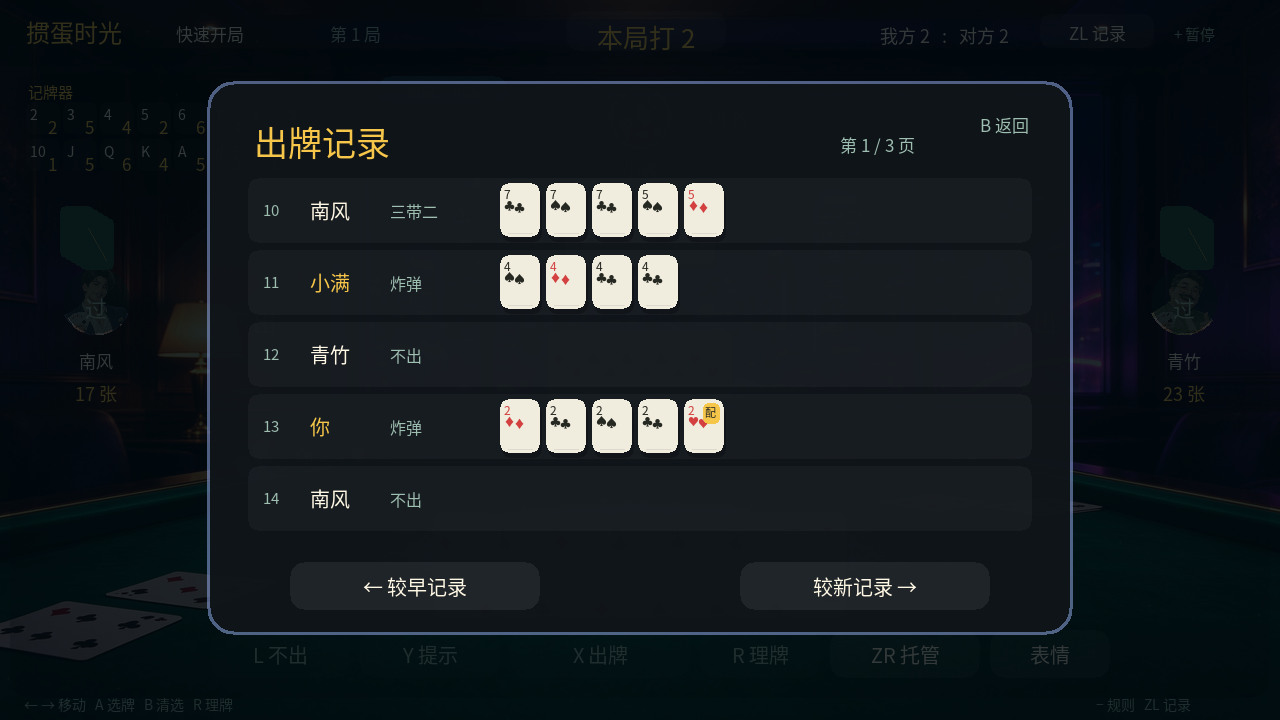
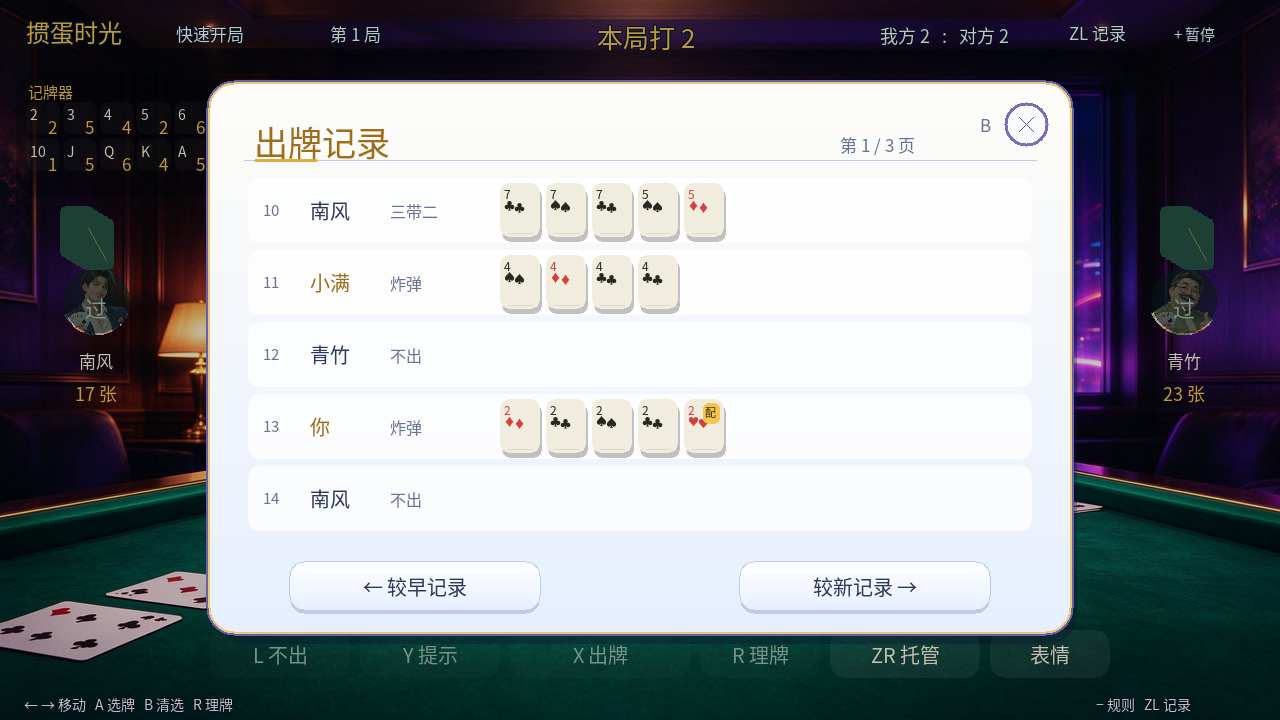
Redesign all screens with full-bleed scenes, floating navigation, and app-style dialogs

diff --git a/source/main.cpp b/source/main.cpp
@@ -42,7 +42,7 @@ static Uint32 pausedAt=0;static int pendingMode=0,historyPage=0,hintIndex=-1;
 static std::vector<Move> hintOptions;static size_t hintAction=0;static uint32_t hintSeed=0;static int hintRound=0;
 struct Area { int x,y,w,h;bool contains(int px,int py)const{return px>=x&&px<x+w&&py>=y&&py<y+h;} };
 static const Area modeAreas[4]={{460,206,350,210},{830,206,350,210},{460,436,350,118},{830,436,350,118}};
-static const Area navAreas[4]={{60,609,270,48},{346,609,270,48},{632,609,270,48},{918,609,270,48}};
+static const Area navAreas[4]={{60,600,270,70},{346,600,270,70},{632,600,270,70},{918,600,270,70}};
 void setModal(int next){Uint32 now=SDL_GetTicks();if(!modal&&next)pausedAt=now;if(modal&&!next)lastAI+=now-pausedAt;modal=next;}
 std::vector<int> selection(){std::vector<int> out;for(int id:game.hands[0])if(selected[id])out.push_back(id);return out;}
 void resetHints(){hintIndex=-1;hintOptions.clear();}
@@ -50,6 +50,9 @@ void resetHints(){hintIndex=-1;hintOptions.clear();}
 enum FxType{FX_PLAY,FX_BOMB,FX_PASS,FX_EMOTE,FX_WIN};
 struct Fx{int type;Uint32 t0;int dur;int sx,sy,dx,dy;std::vector<int> cards;std::string text;};
 static std::vector<Fx> fxList;
+static bool lightPanel=false;
+struct LightPanelScope {bool previous=lightPanel;LightPanelScope(){lightPanel=true;}~LightPanelScope(){lightPanel=previous;}};
+
 static std::array<Move,4> lastShown{};static std::array<bool,4> lastPassed{};static bool lastOver=false;
 
 void color(Col c){SDL_SetRenderDrawColor(ren,c.r,c.g,c.b,c.a);}
@@ -67,7 +70,11 @@ void roundedGradient(int x,int y,int w,int h,int r,Col a,Col b){
 }
 void boxOutline(int x,int y,int w,int h,int r,Col c){box(x,y,w,h,r,c);}
 
-void text(const std::string&s,int x,int y,int size,Col c=CREAM,bool centered=false){if(s.empty())return;std::string key=std::to_string(size)+":"+std::to_string(c.r)+","+std::to_string(c.g)+","+std::to_string(c.b)+":"+s;
+void text(const std::string&s,int x,int y,int size,Col c=CREAM,bool centered=false){if(s.empty())return;
+ if(lightPanel){auto same=[&](Col x){return c.r==x.r&&c.g==x.g&&c.b==x.b;};Uint8 alpha=c.a;
+  if(same(CREAM)||same(WHITE))c={44,57,91};else if(same(MUTED))c={101,116,147};else if(same(GOLD))c={159,108,25};else if(same(Col{207,221,204}))c={88,105,139};c.a=alpha;
+ }
+ std::string key=std::to_string(size)+":"+std::to_string(c.r)+","+std::to_string(c.g)+","+std::to_string(c.b)+":"+s;
  auto it=cache.find(key);if(it==cache.end()){if(!fonts.count(size))fonts[size]=TTF_OpenFont(fontPath.c_str(),size);if(!fonts[size])return;SDL_Color sc{c.r,c.g,c.b,255};SDL_Surface*sf=TTF_RenderUTF8_Blended(fonts[size],s.c_str(),sc);if(!sf)return;TextTex t{SDL_CreateTextureFromSurface(ren,sf),sf->w,sf->h};SDL_FreeSurface(sf);it=cache.emplace(key,t).first;}
  auto&t=it->second;SDL_SetTextureAlphaMod(t.t,c.a);SDL_Rect d{x-(centered?t.w/2:0),y,t.w,t.h};SDL_RenderCopy(ren,t.t,nullptr,&d);}
 void trimCache(){if(cache.size()>650){for(auto&kv:cache)SDL_DestroyTexture(kv.second.t);cache.clear();}}
@@ -167,39 +174,75 @@ void clearFx(Uint32 now){fxList.erase(std::remove_if(fxList.begin(),fxList.end()
 // ---------------- screens ----------------
 // The lobby is drawn natively so labels remain crisp on handheld and TV output.
 void bgHome(){
- vgrad(0,0,W,H,{39,63,125},{14,19,53});
- if(bgTex[2]){SDL_Rect d{0,92,W,720};SDL_RenderCopy(ren,bgTex[2],nullptr,&d);rect(0,92,W,H-92,{14,34,70,24});}
- else{for(int i=0;i<9;i++){int y=130+i*58;line(0,y,1280,y-180,{137,174,255,13});}for(int i=0;i<36;i++){int x=(i*167+39)%W,y=(i*79+100)%H;circle(x,y,i%5==0?2:1,{186,207,255,60});}}
- rect(0,0,W,92,{9,15,43,220});hline(60,91,1128,{156,181,255,80});
- rect(0,592,W,128,{8,15,35,190});
+ if(bgTex[2]){SDL_Rect d{0,0,W,H};SDL_RenderCopy(ren,bgTex[2],nullptr,&d);}
+ else{vgrad(0,0,W,H,{39,63,125},{14,19,53});for(int i=0;i<9;i++){int y=130+i*58;line(0,y,1280,y-180,{137,174,255,13});}}
 }
 void bgTable(){
- if(bgTex[1]&&skin==0){SDL_Rect dst{0,0,W,H};SDL_RenderCopy(ren,bgTex[1],nullptr,&dst);rect(0,0,W,H,{6,16,12,58});}
+ if(bgTex[1]){SDL_Rect dst{0,0,W,H};SDL_RenderCopy(ren,bgTex[1],nullptr,&dst);}
  else vgrad(0,0,W,H,skins[skin].top,skins[skin].bot);
- for(int yy=145;yy<444;yy++){double q=(yy-294)/150.0;int half=int(485*std::sqrt(std::max(0.0,1-q*q)));hline(640-half,yy,half*2,{70,153,134,22});}
- arc(640,294,154,2,0,6.2832,{185,213,213,18});
- for(int i=0;i<24;i++){int x=(i*139+37)%W,y=(i*73+21)%H;circle(x,y,1,{210,188,130,40});}
- boxOutline(10,74,W-20,H-96,18,{0,0,0,50});
+ // Themes tint the same edge-to-edge scene instead of replacing it with flat panels.
+ if(skin==1)rect(0,0,W,H,{12,42,100,38});
+ if(skin==2)rect(0,0,W,H,{70,20,100,38});
 }
-void button(int x,int y,int w,const std::string&label,bool active=false,bool enabled=true){box(x,y,w,48,14,active?GOLD:Col{255,255,255,enabled?Uint8(18):Uint8(7)});text(label,x+w/2,y+9,20,active?INK:enabled?CREAM:MUTED,true);}
-void homeButtons(){const char* labels[]={"继续上次对局","本地战绩","偏好设置","玩法说明"};for(int i=0;i<4;i++){auto a=navAreas[i];button(a.x,a.y,a.w,i==0&&!hasSave?"暂无进行中对局":labels[i],focus==i+4,i!=0||hasSave);}text("方向键 选择   A 进入   − 规则",60,682,15,{163,183,225});text("离线单机 · 无需联网",1004,682,15,{163,183,225},false);}
+void panelFrame(int x,int y,int w,int h,bool close=true){
+ box(x+7,y+12,w,h,26,{6,18,45,85});box(x-4,y-4,w+8,h+8,28,{106,95,169});box(x-2,y-2,w+4,h+4,26,{232,200,120});
+ roundedGradient(x,y,w,h,24,{254,253,249},{231,239,255});
+ int divider=h<400?96:76;hline(x+34,y+divider,w-68,{195,205,226});box(x+44,y+divider-1,64,3,1,{224,172,62});
+ if(!close)return;
+ circle(x+w-44,y+40,22,{119,111,181});circle(x+w-44,y+40,19,{249,251,255});
+ line(x+w-51,y+33,x+w-37,y+47,{90,91,147});line(x+w-51,y+47,x+w-37,y+33,{90,91,147});text("B",x+w-90,y+28,17,MUTED);
+}
+void button(int x,int y,int w,const std::string&label,bool active=false,bool enabled=true){
+ if(lightPanel){box(x,y+4,w,48,14,active?Col{204,146,41}:Col{190,201,226});box(x-1,y-1,w+2,50,15,active?Col{227,177,67}:Col{191,204,234});roundedGradient(x,y,w,48,14,active?Col{255,227,132}:Col{255,255,255},active?Col{249,190,62}:Col{232,240,255});hline(x+18,y+3,w-36,{255,255,255,165});text(label,x+w/2,y+9,20,active?INK:enabled?CREAM:MUTED,true);return;}
+ box(x,y,w,48,14,active?GOLD:Col{255,255,255,enabled?Uint8(18):Uint8(7)});text(label,x+w/2,y+9,20,active?INK:enabled?CREAM:MUTED,true);
+}
+void choiceRow(int x,int y,int w,const std::string&label,const std::string&value,bool active){
+ box(x-2,y-2,w+4,52,14,active?Col{225,176,66}:Col{211,221,242});box(x,y,w,48,12,{255,255,255});
+ if(active){box(x+1,y+9,4,30,2,{231,180,59});}
+ text(label,x+24,y+10,20,CREAM);
+ box(x+w-254,y+5,244,38,10,active?Col{255,237,184}:Col{237,242,254});
+ if(value=="开启"||value=="关闭"){text(value,x+w-220,y+11,18,CREAM);bool on=value=="开启";box(x+w-90,y+12,60,26,13,on?Col{97,136,224}:Col{185,195,214});circle(x+w-(on?43:77),y+25,10,WHITE);}
+ else{text(value,x+w-140,y+11,18,CREAM,true);text("›",x+w-32,y+7,22,MUTED,true);}
+}
+// Outlined floating labels stay legible over the scene without header/footer panels.
+void floatingText(const std::string&label,int x,int y,int size,Col c=WHITE,bool centered=false){
+ for(int dy=-1;dy<=1;dy++)for(int dx=-1;dx<=1;dx++)if(dx||dy)text(label,x+dx,y+dy,size,{8,20,40,210},centered);
+ text(label,x,y,size,c,centered);
+}
+void navIcon(int type,int x,int y,Col c){
+ ring(x,y,16,3,{15,29,53,220});ring(x,y,15,1,c);
+ auto glyph=[&](int dx,int dy,Col cc){
+  if(type==0){vline(x-4+dx,y-7+dy,14,cc);line(x-4+dx,y-7+dy,x+7+dx,y+dy,cc);line(x+7+dx,y+dy,x-4+dx,y+7+dy,cc);}
+  if(type==1)for(int i=0;i<3;i++){vline(x-7+i*7+dx,y+6-(i+1)*5+dy,(i+1)*5,cc);vline(x-6+i*7+dx,y+6-(i+1)*5+dy,(i+1)*5,cc);}
+  if(type==2){ring(x+dx,y+dy,7,2,cc);for(int i=0;i<8;i++){float a=i*.785398f;line(x+dx+int(8*std::cos(a)),y+dy+int(8*std::sin(a)),x+dx+int(11*std::cos(a)),y+dy+int(11*std::sin(a)),cc);}}
+ };
+ glyph(1,1,{15,29,53,230});glyph(0,0,c);if(type==3)floatingText("?",x,y-15,21,c,true);
+}
+void homeButtons(){
+ const char*labels[]={"继续上次对局","本地战绩","偏好设置","玩法说明"};
+ for(int i=0;i<4;i++){auto a=navAreas[i];bool active=!modal&&focus==i+4,enabled=i!=0||hasSave;Col c=active?GOLD:enabled?WHITE:Col{209,218,228};
+  navIcon(i,a.x+a.w/2,a.y+15,c);floatingText(i==0&&!hasSave?"暂无进行中对局":labels[i],a.x+a.w/2,a.y+36,18,c,true);
+  if(active){hline(a.x+a.w/2-58,a.y+65,116,GOLD);hline(a.x+a.w/2-58,a.y+66,116,GOLD);}
+ }
+ floatingText("方向键 选择   A 进入   − 规则",60,682,15);floatingText("离线单机 · 无需联网",1004,682,15);
+}
 void home(){
- bgHome();circle(82,46,23,GOLD);text("掼",82,28,26,{32,43,82},true);text("掼蛋时光",120,23,31,WHITE);
- box(302,30,106,30,15,{115,150,255,30});text("离线俱乐部",355,35,15,{188,211,255},true);
- text("累计对局  "+std::to_string(total),824,34,18,CREAM);text("我方胜率  "+(total?std::to_string(wins*100/total)+"%":"—"),1022,34,18,GOLD);
- box(460,114,720,66,16,{12,24,50,170});text("好牌好搭档，随时开一桌",484,127,27,WHITE);text("双副牌 · 逢人配",1088,137,15,GOLD,true);
- if(bgTex[2]){box(60,507,374,70,16,{10,22,44,195});text("好配合，就是好手气",247,517,23,WHITE,true);text("掼蛋时光 · 离线俱乐部",247,550,16,GOLD,true);}
+ bgHome();circle(82,46,23,GOLD);text("掼",82,28,26,{32,43,82},true);floatingText("掼蛋时光",120,23,31);
+ floatingText("离线俱乐部",355,35,15,WHITE,true);
+ floatingText("累计对局  "+std::to_string(total),824,34,18);floatingText("我方胜率  "+(total?std::to_string(wins*100/total)+"%":"—"),1022,34,18,GOLD);
+ floatingText("好牌好搭档，随时开一桌",484,127,27);floatingText("双副牌 · 逢人配",1088,137,15,GOLD,true);
+ if(bgTex[2]){floatingText("好配合，就是好手气",247,517,23,WHITE,true);floatingText("掼蛋时光 · 离线俱乐部",247,550,16,GOLD,true);}
  else{box(60,206,374,348,24,{13,27,66,180});if(avTex[0]){SDL_Rect d{160,258,174,174};SDL_RenderCopy(ren,avTex[0],nullptr,&d);}text("好配合，就是好手气",247,450,26,WHITE,true);text("经典升级 · 默契搭档 · 从 2 打到 A",247,494,17,{171,194,235},true);}
  const char* titles[]={"快速开局","经典升级","明牌练习","定局挑战"};const char* tags[]={"QUICK PLAY","CLASSIC MATCH","OPEN HANDS","CHALLENGE"};
  const char* desc[]={"随机发牌，一局尽兴","从 2 打到 A，进贡还贡","看清四家 · 练习配合","固定发牌 · 反复推演"};
  Col tops[4]={{65,114,201,235},{101,78,173,235},{37,103,146,235},{100,67,143,235}};Col bots[4]={{32,56,124,242},{53,37,113,242},{21,53,87,242},{47,31,85,242}};
- for(int i=0;i<4;i++){auto a=modeAreas[i];bool f=focus==i;box(a.x+3,a.y+6,a.w,a.h,20,{4,9,35,90});box(a.x-2,a.y-2,a.w+4,a.h+4,22,f?GOLD:Col{146,174,249,80});
-  roundedGradient(a.x,a.y,a.w,a.h,20,tops[i],bots[i]);
+ for(int i=0;i<4;i++){auto a=modeAreas[i];bool f=modal==8?pendingMode==i:!modal&&focus==i;box(a.x+3,a.y+6,a.w,a.h,20,{4,9,35,90});box(a.x-2,a.y-2,a.w+4,a.h+4,22,f?GOLD:Col{146,174,249,80});
+  roundedGradient(a.x,a.y,a.w,a.h,20,tops[i],bots[i]);hline(a.x+22,a.y+3,a.w-44,{255,255,255,70});
   text(tags[i],a.x+24,a.y+16,13,{217,227,255});text(titles[i],a.x+24,a.y+(i<2?48:38),i<2?34:27,WHITE);text(desc[i],a.x+24,a.y+(i<2?99:80),17,{217,227,255});
   if(i<2){for(int j=0;j<3;j++)cardFace((i==0?36:40)+j,a.x+211+j*27,a.y+107-j*8,48,69,false,false);box(a.x+24,a.y+148,122,36,18,f?GOLD:Col{255,255,255,32});text(i==0?"即刻开桌  ›":"开始升级  ›",a.x+85,a.y+155,17,f?INK:WHITE,true);}
   else text("›",a.x+a.w-35,a.y+40,32,GOLD);
  }
- box(460,562,720,26,10,{8,18,37,150});text("选择玩法后，可调整 AI 难度、节奏和倒计时",478,565,15,CREAM);
+ floatingText("选择玩法后，可调整 AI 难度、节奏和倒计时",478,565,15);
 }
 void showMove(int p,int cx,int y){auto&m=game.shown[p];if(game.passed[p]){text("不 出",cx,y+16,24,MUTED,true);return;}if(m.kind==NONE)return;int n=m.cards.size(),step=std::min(34,230/std::max(1,n));int x=cx-(step*(n-1)+48)/2;for(int i=0;i<n;i++)cardFace(m.cards[i],x+step*i,y,48,69,false,false);text(kindName(m.kind),cx,y+74,14,GOLD,true);}
 void counterPanel(){
@@ -210,11 +253,10 @@ void counterPanel(){
 }
 void table(){
  bgTable();
- rect(0,0,W,66,{0,0,0,62});
- text("掼蛋时光",26,14,24,GOLD);
- const char*modes[]={"快速开局","经典升级","明牌练习","定局挑战"};text(modes[game.mode],176,21,17,CREAM);text("第 "+std::to_string(game.round)+" 局",330,21,17,MUTED);
- box(566,11,160,40,13,{255,255,255,14});text("本局打 "+rankName(game.level),646,17,26,GOLD,true);
- text("我方 "+rankName(game.levels[0])+"   :   对方 "+rankName(game.levels[1]),880,22,18,CREAM);text("+ 暂停",1174,22,15,MUTED);box(1040,14,114,34,10,{255,255,255,16});text("ZL 记录",1097,20,17,CREAM,true);
+ floatingText("掼蛋时光",26,14,24,GOLD);
+ const char*modes[]={"快速开局","经典升级","明牌练习","定局挑战"};floatingText(modes[game.mode],176,21,17);floatingText("第 "+std::to_string(game.round)+" 局",330,21,17);
+ floatingText("本局打 "+rankName(game.level),646,17,26,GOLD,true);
+ floatingText("我方 "+rankName(game.levels[0])+"   :   对方 "+rankName(game.levels[1]),880,22,18);floatingText("+ 暂停",1174,22,15);floatingText("ZL 记录",1097,20,17,WHITE,true);
  counterPanel();
  Uint32 now=SDL_GetTicks();
  auto fin=[&](int p){return game.hands[p].empty();};
@@ -227,7 +269,7 @@ void table(){
  if(game.mode==2){for(int p=1;p<4;p++){int x=p==1?26:p==3?1066:365,y=p==2?88:96;for(int i=0;i<int(game.hands[p].size());i++){int cols=p==2?27:6,col=i%cols,row=i/cols;cardFace(game.hands[p][i],x+col*(p==2?20:28),y+row*50,35,49,false,false);}}}
  else for(int p:{1,3}){int x=p==1?60:1160;for(int i=0;i<5;i++){int xx=x+i*5;box(xx,206+i*3,34,52,5,{40,80,64});line(xx+8,216+i*3,xx+26,248+i*3,GOLD_BORDER);}}
  showMove(2,640,196);showMove(1,250,288);showMove(3,1030,288);showMove(0,640,330);
- if(game.mode!=2){box(377,76,132,28,14,{80,163,220,55});text("对家：小满",443,80,15,{164,218,255},true);}
+ if(game.mode!=2)floatingText("对家：小满",443,80,15,{164,218,255},true);
  if(game.table.kind==NONE)text("自 由 领 出",640,262,22,{207,221,204,150},true);
  text("掼蛋时光",640,296,26,{246,198,74,18},true);
  if(!game.over){std::string st=game.turn==0?(autoplay?"正在托管 · 自动出牌":"轮到你出牌"):playerName(game.turn)+" 正在思考";text(st,640,424,21,game.turn==0?GOLD:MUTED,true);if(game.turn!=0){for(int i=0;i<3;i++)circle(640-30+i*30,457,3,i==int(now/350)%3?GOLD:Col{70,108,99});}}
@@ -243,9 +285,9 @@ void table(){
  auto btn=[&](int bx,int by,int bw,const std::string&l,bool en,bool act){box(bx,by,bw,48,14,act?GOLD:en?Col{255,255,255,20}:Col{255,255,255,7});text(l,bx+bw/2,by+9,20,act?INK:en?CREAM:MUTED,true);};
  bool my=game.turn==0&&!game.over&&!autoplay;
  btn(210,630,140,"L 不出",game.table.kind!=NONE&&my,false);btn(360,630,140,"Y 提示",my,false);btn(510,630,180,"X 出牌",my&&preview.kind!=NONE,my&&preview.kind!=NONE);btn(700,630,120,"R 理牌",my,false);btn(830,630,150,autoplay?"ZR 接管":"ZR 托管",!game.over,!game.over&&autoplay);btn(990,630,120,"表情",true,false);
- text("← → 移动   A 选牌   B 清选   R 理牌",24,693,14,MUTED);text("− 规则   ZL 记录",1096,693,14,MUTED);
+ floatingText("← → 移动   A 选牌   B 清选   R 理牌",24,693,14);floatingText("− 规则   ZL 记录",1096,693,14);
  recordResult();
- if(game.over){rect(0,66,W,H-66,{2,10,16,180});box(380,150,520,340,24,PANEL);text(game.finish[0]%2==0?"配合漂亮！":"再来一局",640,180,42,GOLD,true);text(game.notice,640,244,20,CREAM,true);
+ if(game.over){LightPanelScope palette;rect(0,0,W,H,{2,10,16,60});panelFrame(380,150,520,340,false);text(game.finish[0]%2==0?"配合漂亮！":"再来一局",640,180,42,GOLD,true);text(game.notice,640,244,20,CREAM,true);
   int teamUp=0;if(game.mode==1){int tf=game.finish[0]%2;int place=0;for(int i=1;i<4;i++)if(game.finish[i]%2==tf)place=i;teamUp=4-place;}
   for(int i=0;i<4;i++)text(std::to_string(i+1)+"  "+playerName(game.finish[i])+(game.finish[i]%2==0?"  ★":""),440+(i%2)*215,285+(i/2)*38,19,game.finish[i]%2==0?GOLD:MUTED);
   text(game.mode!=1?"单局结束 · 下一局重新发牌":game.champion?"成功过 A · 新赛季开启！":"获胜方升 "+std::to_string(teamUp)+" 级",640,396,18,{207,221,204},true);
@@ -254,25 +296,25 @@ void table(){
 }
 void overlay(){
  if(!modal)return;
- rect(0,0,W,H,{2,10,16,205});box(207,81,866,554,26,{145,168,229,140});box(210,84,860,548,24,PANEL);text("B 返回",1004,112,17,MUTED,true);
+ LightPanelScope palette;rect(0,0,W,H,{2,10,16,60});panelFrame(210,84,860,548);
  if(modal==1){text("暂停片刻",254,116,34,GOLD);const char*items[]={"继续对局","保存并返回大厅","偏好设置","玩法说明"};for(int i=0;i<4;i++)button(340,196+i*80,600,items[i],focus==i);}
- if(modal==2){text("偏好设置",254,116,34,GOLD);std::string labels[]={"AI 策略："+std::string(game.difficulty==0?"休闲":game.difficulty==1?"标准":"进阶"),"牌桌主题："+std::string(skin==0?"翡翠绿":skin==1?"深海蓝":"午夜紫"),"AI 出牌速度："+std::string(speed==0?"舒缓":speed==1?"标准":"快速"),"操作音效："+std::string(sound?"开启":"关闭"),"记牌器："+std::string(recorder?"开启":"关闭"),"出牌倒计时："+std::string(timerOn?"开启":"关闭")};for(int i=0;i<6;i++)button(315,180+i*70,650,labels[i],focus==i);text("A 切换选项   B 返回",640,600,17,MUTED,true);}
+ if(modal==2){text("偏好设置",254,116,34,GOLD);const char*labels[]={"AI 难度","牌桌主题","出牌节奏","操作音效","记牌器","出牌倒计时"};std::string values[]={game.difficulty==0?"休闲":game.difficulty==1?"标准":"进阶",skin==0?"原色夜景":skin==1?"深海蓝":"午夜紫",speed==0?"舒缓":speed==1?"标准":"快速",sound?"开启":"关闭",recorder?"开启":"关闭",timerOn?"开启":"关闭"};for(int i=0;i<6;i++)choiceRow(315,180+i*70,650,labels[i],values[i],focus==i);text("A 切换选项   B 返回",640,600,17,MUTED,true);}
  if(modal==3){text("玩法与操作",254,110,32,GOLD);const char*rules[]={"四人两副牌，对家组队。红桃级牌（逢人配）可代替非王牌。","牌型：单张 / 对子 / 三张 / 三带二 / 五张顺子 / 三连对 / 钢板。","炸弹：四至五张 < 同花顺 < 六张及以上；四王最大。","顺子中级牌回归原点数；A 可在开头或末尾，不循环。","头游一方按队友名次升 3 / 2 / 1 级；打 A 且队友非末游获胜。","升级赛自动进贡并还最低非配牌；双大王可抗贡。","← → 移动光标，A 选牌，X 出牌，B 清选，Y 切换提示，R 理牌。","L 不出，ZR 托管，ZL 出牌记录，+ 暂停，− 本页。","掌机支持点按选牌和按钮；倒计时结束自动出牌。","进阶 AI 为规则启发式策略；定局挑战可重试相同发牌。"};for(int i=0;i<10;i++)text(rules[i],254,168+i*37,18,i<6?CREAM:MUTED);}
- if(modal==4){text("本地战绩",254,116,34,GOLD);std::string v[]={std::to_string(total),std::to_string(wins),total?std::to_string(wins*100/total)+"%":"—",std::to_string(bombs)};const char*l[]={"完成对局","我方获胜","本地胜率","打出炸弹"};for(int i=0;i<4;i++){int x=330+(i%2)*340,y=200+(i/2)*150;text(v[i],x,y,46,CREAM);text(l[i],x,y+63,20,MUTED);}text("B 返回   ·   数据仅保存在本机",640,570,17,MUTED,true);}
+ if(modal==4){text("本地战绩",254,116,34,GOLD);std::string v[]={std::to_string(total),std::to_string(wins),total?std::to_string(wins*100/total)+"%":"—",std::to_string(bombs)};const char*l[]={"完成对局","我方获胜","本地胜率","打出炸弹"};for(int i=0;i<4;i++){int x=330+(i%2)*340,y=200+(i/2)*150;box(x-28,y-12,280,126,16,{255,255,255,205});circle(x+206,y+24,17,{233,223,185});text("★",x+206,y+11,18,GOLD,true);text(v[i],x,y,46,CREAM);text(l[i],x,y+63,20,MUTED);}text("B 返回   ·   数据仅保存在本机",640,570,17,MUTED,true);}
  if(modal==5){text("出牌记录",254,116,34,GOLD);int pages=std::max(1,(int(game.history.size())+4)/5);historyPage=std::clamp(historyPage,0,pages-1);text("第 "+std::to_string(historyPage+1)+" / "+std::to_string(pages)+" 页",840,132,17,MUTED);
   if(game.history.empty())text("尚无出牌记录 · 旧版本存档从恢复后开始记录",640,300,21,CREAM,true);
-  int end=int(game.history.size())-historyPage*5,start=std::max(0,end-5);for(int i=start;i<end;i++){auto&r=game.history[i];int y=178+(i-start)*72;box(248,y,784,65,10,{255,255,255,9});text(std::to_string(i+1),263,y+20,15,MUTED);text(playerName(r.player),310,y+17,20,r.player%2==0?GOLD:CREAM);text(r.move.kind==NONE?"不出":kindName(r.move.kind),390,y+21,16,MUTED);for(int j=0;j<int(r.move.cards.size());j++)cardFace(r.move.cards[j],500+j*46,y+5,40,54,false,false);}
+  int end=int(game.history.size())-historyPage*5,start=std::max(0,end-5);for(int i=start;i<end;i++){auto&r=game.history[i];int y=178+(i-start)*72;box(248,y,784,65,10,{255,255,255,210});text(std::to_string(i+1),263,y+20,15,MUTED);text(playerName(r.player),310,y+17,20,r.player%2==0?GOLD:CREAM);text(r.move.kind==NONE?"不出":kindName(r.move.kind),390,y+21,16,MUTED);for(int j=0;j<int(r.move.cards.size());j++)cardFace(r.move.cards[j],500+j*46,y+5,40,54,false,false);}
   button(290,562,250,"← 较早记录");button(740,562,250,"较新记录 →");}
- if(modal==8){const char*modes[]={"快速开局","经典升级","明牌练习","定局挑战"};text(modes[pendingMode],254,116,34,GOLD);text("开局设置",940,138,18,MUTED);std::string labels[]={"AI 难度："+std::string(game.difficulty==0?"休闲":game.difficulty==1?"标准":"进阶"),"出牌节奏："+std::string(speed==0?"舒缓":speed==1?"标准":"快速"),"18 秒倒计时："+std::string(timerOn?"开启":"关闭"),"开始对局  ›"};for(int i=0;i<4;i++)button(315,190+i*78,650,labels[i],focus==i);text(pendingMode==3?"同一副首局可重试，适合练习拆牌思路":"四人双副牌 · 对家组队 · 红桃级牌为逢人配",640,534,18,MUTED,true);text("↑ ↓ 选择   A 切换 / 开始   B 返回",640,574,17,MUTED,true);}
+ if(modal==8){const char*modes[]={"快速开局","经典升级","明牌练习","定局挑战"};text(modes[pendingMode],254,116,34,GOLD);text("开局设置",892,128,18,MUTED);const char*labels[]={"AI 难度","出牌节奏","18 秒倒计时"};std::string values[]={game.difficulty==0?"休闲":game.difficulty==1?"标准":"进阶",speed==0?"舒缓":speed==1?"标准":"快速",timerOn?"开启":"关闭"};for(int i=0;i<3;i++)choiceRow(315,190+i*78,650,labels[i],values[i],focus==i);button(315,424,650,"开始对局  ›",true);text(pendingMode==3?"同一副首局可重试，适合练习拆牌思路":"四人双副牌 · 对家组队 · 红桃级牌为逢人配",640,534,18,MUTED,true);text("↑ ↓ 选择   A 切换 / 开始   B 返回",640,574,17,MUTED,true);}
  if(modal==6){text("快捷表情",254,116,34,GOLD);const char*em[]={"打得漂亮！","不要走，决战到天亮","快点吧，等得花儿都谢了","你太厉害了！","稳住，我们能赢！","这牌，绝了！","别急，容我想想","配合默契，双喜临门！"};for(int i=0;i<8;i++){int col=i%2,row=i/2;button(330+col*330,196+row*84,300,em[i],focus==i);}text("方向键选择   A 发送   B 返回",640,562,17,MUTED,true);}
  if(modal==7){text("复盘报告",254,116,34,GOLD);text("牌力统计 · 非 AI 评估",650,132,17,MUTED);int n=int(game.powerLog.size());int bombs=0,maxPow=0;for(int i=0;i<n;i++){if(game.bombLog[i])bombs++;maxPow=std::max(maxPow,game.powerLog[i]);}
-  int cx=252,cy=168,cw=776,ch=206;box(cx,cy,cw,ch,10,{0,0,0,78});text("本局共 "+std::to_string(n)+" 手 · 炸弹 "+std::to_string(bombs)+" 次 · 最大牌力 "+std::to_string(maxPow),278,180,18,GOLD);
-  const int grid[4]={100,75,50,25};for(int g=0;g<4;g++){int gy=cy+ch-26-grid[g]*(ch-70)/100;hline(cx+10,gy,cw-20,{255,255,255,26});text(std::to_string(grid[g]),cx-22,gy-7,14,MUTED);}
+  int cx=252,cy=168,cw=776,ch=206;box(cx,cy,cw,ch,10,{255,255,255,220});text("本局共 "+std::to_string(n)+" 手 · 炸弹 "+std::to_string(bombs)+" 次 · 最大牌力 "+std::to_string(maxPow),278,180,18,GOLD);
+  const int grid[4]={100,75,50,25};for(int g=0;g<4;g++){int gy=cy+ch-26-grid[g]*(ch-70)/100;hline(cx+10,gy,cw-20,{180,194,221,130});text(std::to_string(grid[g]),cx-22,gy-7,14,MUTED);}
   int px0=cx+16,py0=cy+ch-26,px1=cx+cw-16,py1=cy+44;
-  if(n>1){int lx=px0,ly=py0-(maxPow?int(double(game.powerLog[0])*100/maxPow):0)*(py0-py1)/100;for(int i=0;i<n;i++){int x=px0+(px1-px0)*i/(n-1);int sc=maxPow?std::min(100,int(double(game.powerLog[i])*100.0/double(maxPow))):0;int y=py0-sc*(py0-py1)/100;line(lx,ly,x,y,GOLD);circle(x,y,2,GOLD);lx=x;ly=y;}}
+  if(n>1){int lx=px0,ly=py0-(maxPow?int(double(game.powerLog[0])*100/maxPow):0)*(py0-py1)/100;for(int i=0;i<n;i++){int x=px0+(px1-px0)*i/(n-1);int sc=maxPow?std::min(100,int(double(game.powerLog[i])*100.0/double(maxPow))):0;int y=py0-sc*(py0-py1)/100;line(lx,ly,x,y,{180,120,24});circle(x,y,2,{180,120,24});lx=x;ly=y;}}
   text("牌力曲线 · 第 1 → 第 "+std::to_string(std::max(1,n))+" 手",px0,py0+8,14,MUTED);
-  int qx=cx,qy=py0+38,qw=cw,qh=H-qy-170;box(qx,qy,qw,qh,10,{0,0,0,78});text("局势图 · 四家手牌余量",278,qy+8,18,GOLD);
-  if(!game.snapshots.empty()){Col cols[4]={GOLD,Col{120,200,160},{150,120,220},{190,150,120}};const char*ps[4]={"你","南风","小满","青竹"};for(int p=0;p<4;p++){int lx=qx+16,ly=qy+qh-18-int(game.snapshots[0][p])*(qh-52)/27;for(int i=1;i<int(game.snapshots.size());i++){int x=qx+16+(qw-112)*i/(int(game.snapshots.size())-1);int y=qy+qh-18-int(game.snapshots[i][p])*(qh-52)/27;line(lx,ly,x,y,cols[p]);lx=x;ly=y;}text(ps[p],qx+qw-40,qy+44+23*p,14,cols[p]);}}
+  int qx=cx,qy=py0+38,qw=cw,qh=H-qy-170;box(qx,qy,qw,qh,10,{255,255,255,220});text("局势图 · 四家手牌余量",278,qy+8,18,GOLD);
+  if(!game.snapshots.empty()){Col cols[4]={Col{180,120,24},Col{36,142,116},{127,86,187},{188,100,68}};const char*ps[4]={"你","南风","小满","青竹"};for(int p=0;p<4;p++){int lx=qx+16,ly=qy+qh-18-int(game.snapshots[0][p])*(qh-52)/27;for(int i=1;i<int(game.snapshots.size());i++){int x=qx+16+(qw-112)*i/(int(game.snapshots.size())-1);int y=qy+qh-18-int(game.snapshots[i][p])*(qh-52)/27;line(lx,ly,x,y,cols[p]);lx=x;ly=y;}text(ps[p],qx+qw-40,qy+44+23*p,14,cols[p]);}}
   text("B 返回",940,568,17,MUTED);}
 }
 // ---------------- actions ----------------
@@ -306,7 +348,7 @@ void act(Action a){
 }
 void click(int x,int y){
  if(modal){
-  if(Area{945,99,100,48}.contains(x,y)){act(BACK);return;}
+  if(Area{945,96,112,54}.contains(x,y)){act(BACK);return;}
   if(modal==5){if(Area{290,562,250,48}.contains(x,y))act(LEFT);else if(Area{740,562,250,48}.contains(x,y))act(RIGHT);return;}
   int count=modal==1?4:modal==2?6:modal==8?4:modal==6?8:0;
   for(int i=0;i<count;i++){
@@ -322,7 +364,7 @@ void click(int x,int y){
  if(game.turn==0&&!autoplay){int n=game.hands[0].size(),step=std::min(58,1138/std::max(1,n-1)),xx=(W-(step*std::max(0,n-1)+66))/2;for(int i=n-1;i>=0;i--){int yy=513-(selected[game.hands[0][i]]?18:0);if(x>=xx+i*step&&x<xx+i*step+66&&y>=yy&&y<yy+104){cursor=i;act(CONFIRM);return;}}}
 }
 int main(int argc,char**argv){bool capture=false,captureGame=false,captureOver=false,smoke=false,reviewMode=false;int captureMode=0,captureModal=0;std::string capturePath="preview.bmp";
- for(int i=1;i<argc;i++){std::string s=argv[i];if(s=="--capture-training"){captureMode=2;s="--capture-game";}if(s=="--capture-help"){captureModal=3;s="--capture";}if(s=="--capture-settings"){captureModal=2;s="--capture";}if(s=="--capture-emote"){captureModal=6;s="--capture";}if(s=="--capture-setup"){captureModal=8;s="--capture";}if(s=="--capture-history"){captureModal=5;captureGame=true;s="--capture-game";}if(s=="--capture-review"){reviewMode=true;s="--capture-over";}if(s=="--capture-over"){capture=true;captureGame=true;captureOver=true;if(i+1<argc)capturePath=argv[++i];}if(s=="--capture"||s=="--capture-game"){capture=true;captureGame=s=="--capture-game";if(i+1<argc)capturePath=argv[++i];}if(s=="--smoke")smoke=true;if(s=="--data-dir"&&i+1<argc)base=std::string(argv[++i])+"/";}
+ for(int i=1;i<argc;i++){std::string s=argv[i];if(s=="--capture-training"){captureMode=2;s="--capture-game";}if(s=="--capture-help"){captureModal=3;s="--capture";}if(s=="--capture-stats"){captureModal=4;s="--capture";}if(s=="--capture-pause"){captureModal=1;s="--capture-game";}if(s=="--capture-settings"){captureModal=2;s="--capture";}if(s=="--capture-emote"){captureModal=6;s="--capture";}if(s=="--capture-setup"){captureModal=8;s="--capture";}if(s=="--capture-history"){captureModal=5;captureGame=true;s="--capture-game";}if(s=="--capture-review"){reviewMode=true;s="--capture-over";}if(s=="--capture-over"){capture=true;captureGame=true;captureOver=true;if(i+1<argc)capturePath=argv[++i];}if(s=="--capture"||s=="--capture-game"){capture=true;captureGame=s=="--capture-game";if(i+1<argc)capturePath=argv[++i];}if(s=="--smoke")smoke=true;if(s=="--data-dir"&&i+1<argc)base=std::string(argv[++i])+"/";}
 #ifdef __SWITCH__
  romfsInit();base="sdmc:/switch/GuandanSwitch/";mkdir(base.c_str(),0777);fontPath="romfs:/font.otf";padConfigureInput(1,HidNpadStyleSet_NpadStandard);PadState pad;padInitializeDefault(&pad);
 #else

diff --git a/tools/capture_previews.py b/tools/capture_previews.py
@@ -9,7 +9,8 @@ ROOT = Path(__file__).resolve().parents[1]
 SCREENS = {'home':'--capture', 'game':'--capture-game', 'training':'--capture-training',
            'setup':'--capture-setup', 'history':'--capture-history', 'settings':'--capture-settings',
            'help':'--capture-help', 'emote':'--capture-emote',
-           'over':'--capture-over', 'review':'--capture-review'}
+           'over':'--capture-over', 'review':'--capture-review',
+           'pause':'--capture-pause', 'stats':'--capture-stats'}
 with TemporaryDirectory(prefix='guandan-preview-') as tmp:
     env = dict(os.environ, SDL_VIDEODRIVER='dummy', SDL_AUDIODRIVER='dummy')
     for name, flag in SCREENS.items():

diff --git a/README.md b/README.md
@@ -18,12 +18,13 @@
 
 参考用户提供的欢乐斗地主 / 大掼蛋界面，重新组织离线功能：
 
-- 海滨露台大厅（用户提供背景）、蓝紫金玩法卡片、本地战绩信息与统一底栏；四家角色使用用户提供的透明肖像图集，运行时读取各角色，不改动原始图集。
+- 全屏海滨露台大厅（用户提供背景，所有界面取消整条页眉/页脚色块，采用悬浮文字和局部按钮）、蓝紫金玩法卡片、本地战绩信息与统一底栏；四家角色使用用户提供的透明肖像图集，运行时读取各角色，不改动原始图集。
 - 四种玩法进入前支持配置 AI 难度、出牌节奏和倒计时；A 默认直接开始，方向键可调整选项。
 - 连按 Y 在合法出牌方案间切换，首项保留 AI 推荐（包括建议给队友让牌）；选中手牌实时显示牌型，非法出牌按钮置灰。
 - ZL 打开带实际牌面的分页出牌记录，含“不出”记录；左右键或触屏按钮翻页。记录和复盘数据随牌局保存。
 - GD5 新存档兼容读取 GD3 / GD4；旧存档没有历史数据，恢复后的行动开始记录。旧版程序不能读取 GD5。
 - 暂停、规则、设置和记录弹窗冻结倒计时；修复桌面 Enter 在弹窗内无法确认、结算触屏无法分别返回/复盘的问题。
+- 大厅、牌桌和三种主题均采用全屏场景；设置、规则、记录、战绩和复盘采用浅色中央内容卡、蓝紫边框、金色主按钮、独立关闭按钮及设置值控件，周围全屏背景保持可见。
 - 调整明牌模式布局，避免记牌器遮住对手手牌；修复头像透明与颜色通道、主题切换和记牌器大小王数量。
 - 复盘标记为牌力统计（非 AI 评估），修复坐标网格和玩家图例。
 
